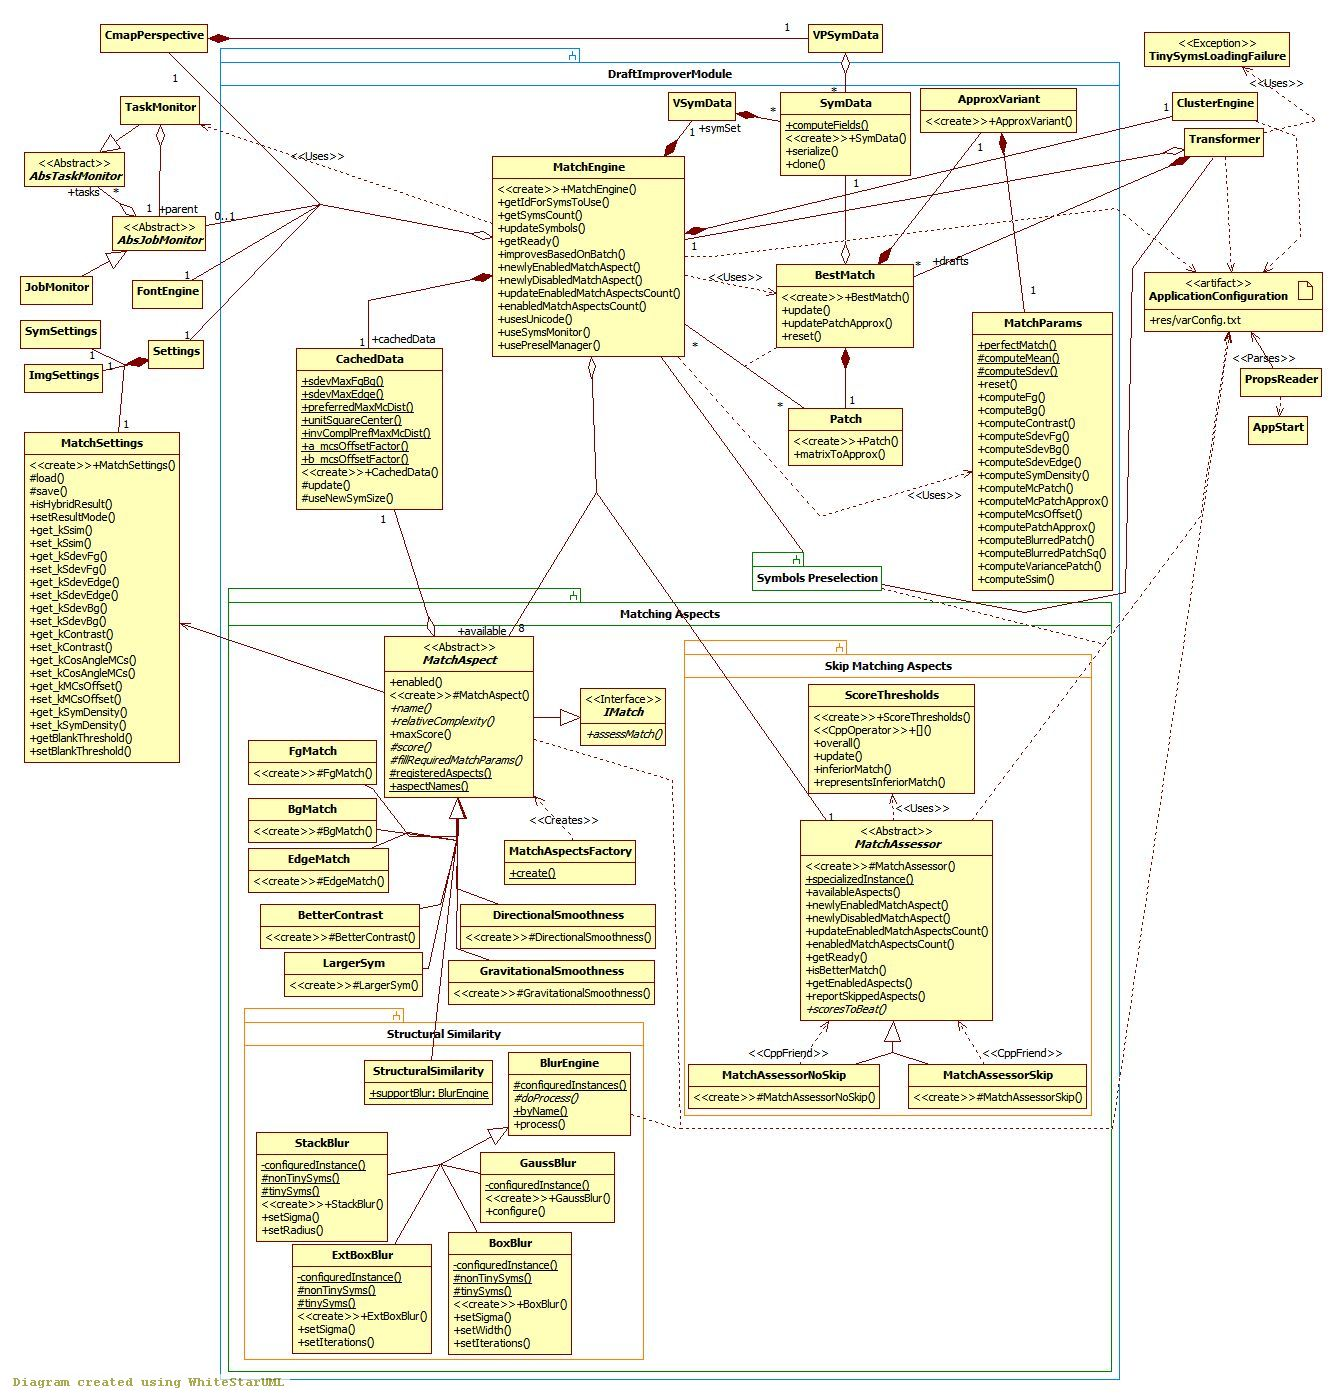
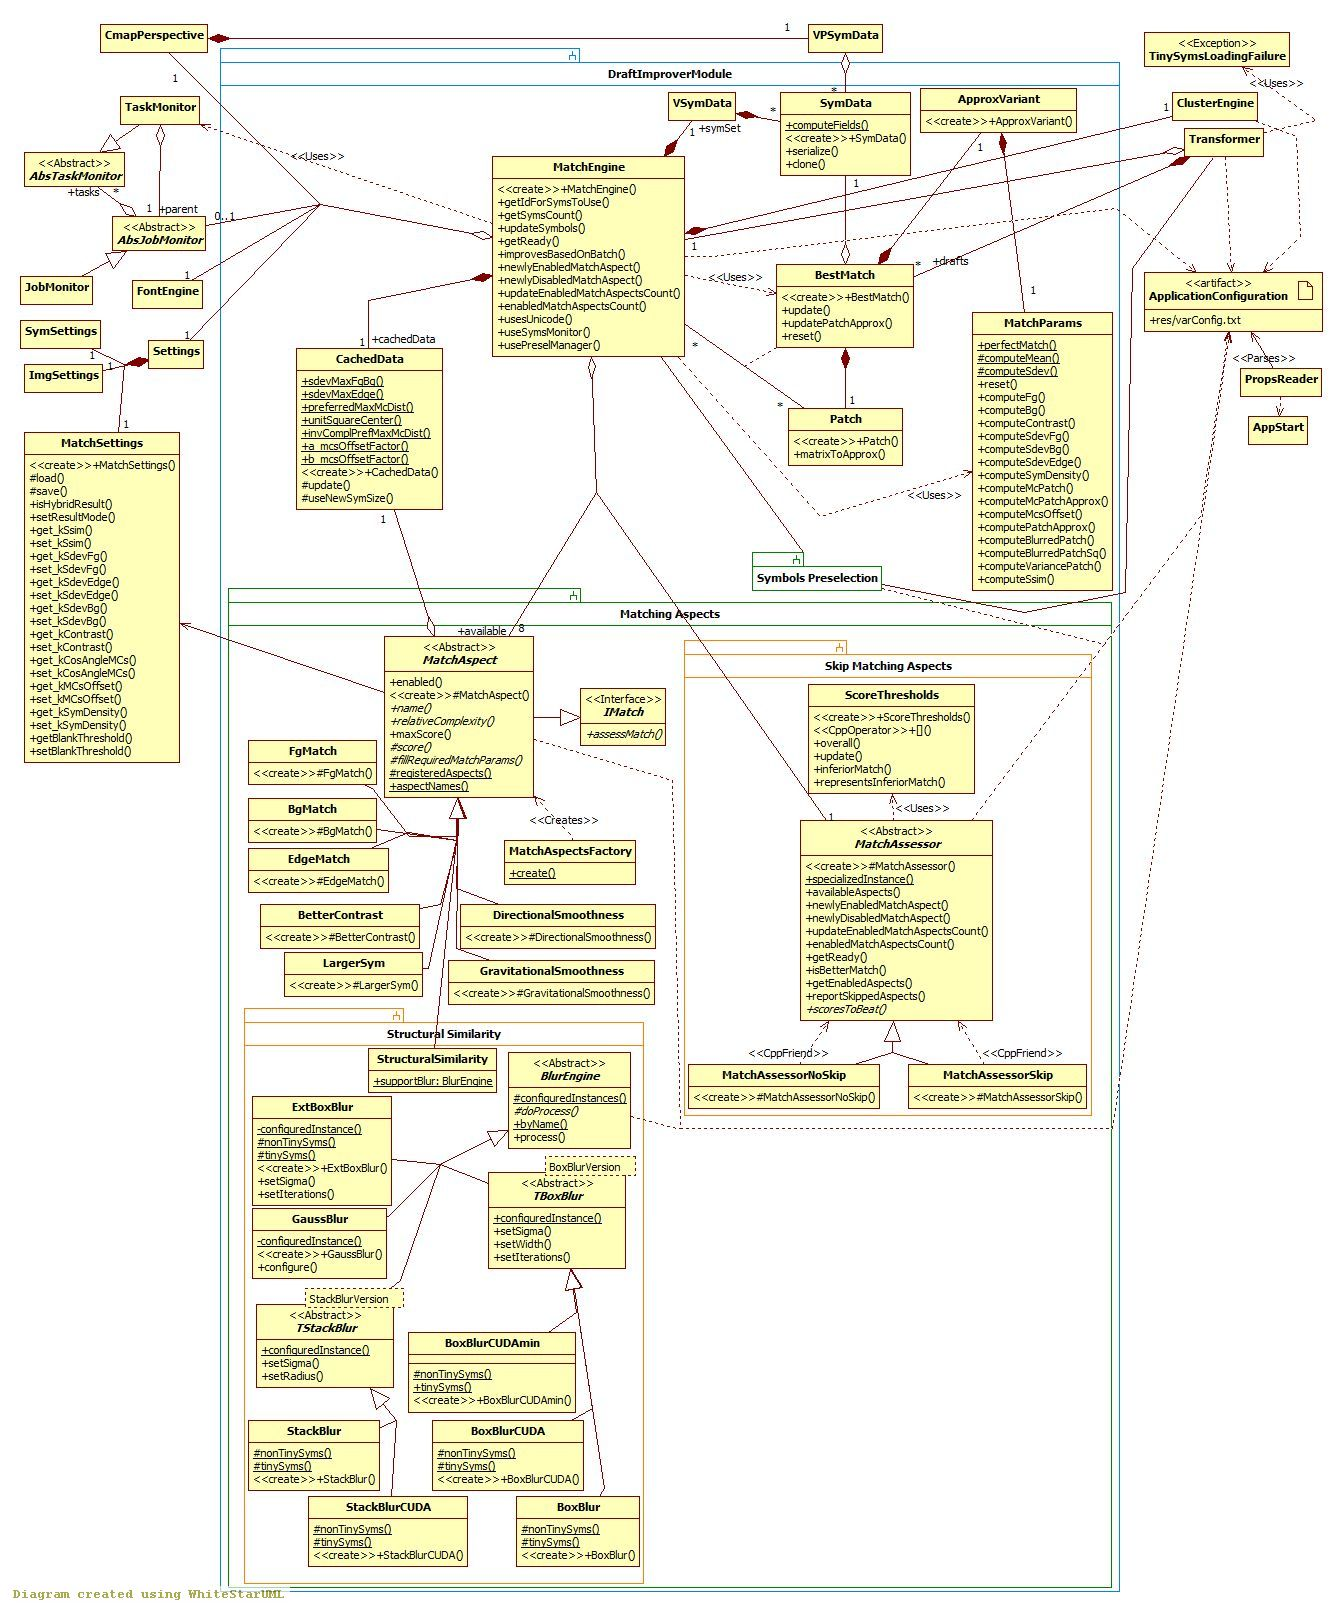
doc: added a CUDA reference within the appendix.md and CUDA related blur classes to the DraftImprover diagram

diff --git a/doc/pages/appendix/modules/draftImprover.md b/doc/pages/appendix/modules/draftImprover.md
@@ -40,7 +40,7 @@ Currently, the most complex **MatchAspect** is [***StructuralSimilarity***][Stru
 
 Current version of the project relies only on CPU power. In this context and for the reference window width and standard deviation prescribed for the Gaussian blur within ***StructuralSimilarity***, none of the presented alternatives and neither other investigated blurs were able to beat the Gaussian blur from OpenCV while also aiming for similar blur quality.
 
-The [prototypesCUDA](../../../../../prototypesCUDA/ReadMe.md) branch introduced implementations for the *Box* and *Stack* blur algorithms.<br>
+The [prototypesCUDA](../../../../../prototypesCUDA/ReadMe.md) branch introduced implementations for the *Box* and *Stack* blur algorithms: *StackBlurCUDA*, *BoxBlurCUDA* and *BoxBlurCUDAmin* (this last one performs only the initialization of the rolling sums on the GPU).<br>
 
 -------
 [Back to the Appendix](../appendix.md) or jump to the [start page](../../../../ReadMe.md)

diff --git a/doc/pages/appendix/appendix.md b/doc/pages/appendix/appendix.md
@@ -99,6 +99,7 @@ Following *open\-source* and *platform\-independent* libraries were employed in 
 However, it *runs only under Windows*, as it uses Windows\-specific:
 
 - **[OpenMP](https://msdn.microsoft.com/en-us/library/tt15eb9t.aspx)** (*its Visual C++ implementation*) for simple *multi\-threading support*
+- **[CUDA](https://en.wikipedia.org/wiki/CUDA)** for implementing versions of some algorithms using the GPU
 - *Open / Save Dialog*
 - *Select Font Dialog* and also *reads the registries* to find the *font file for the chosen font* (**FreeType** needs that file).
 
